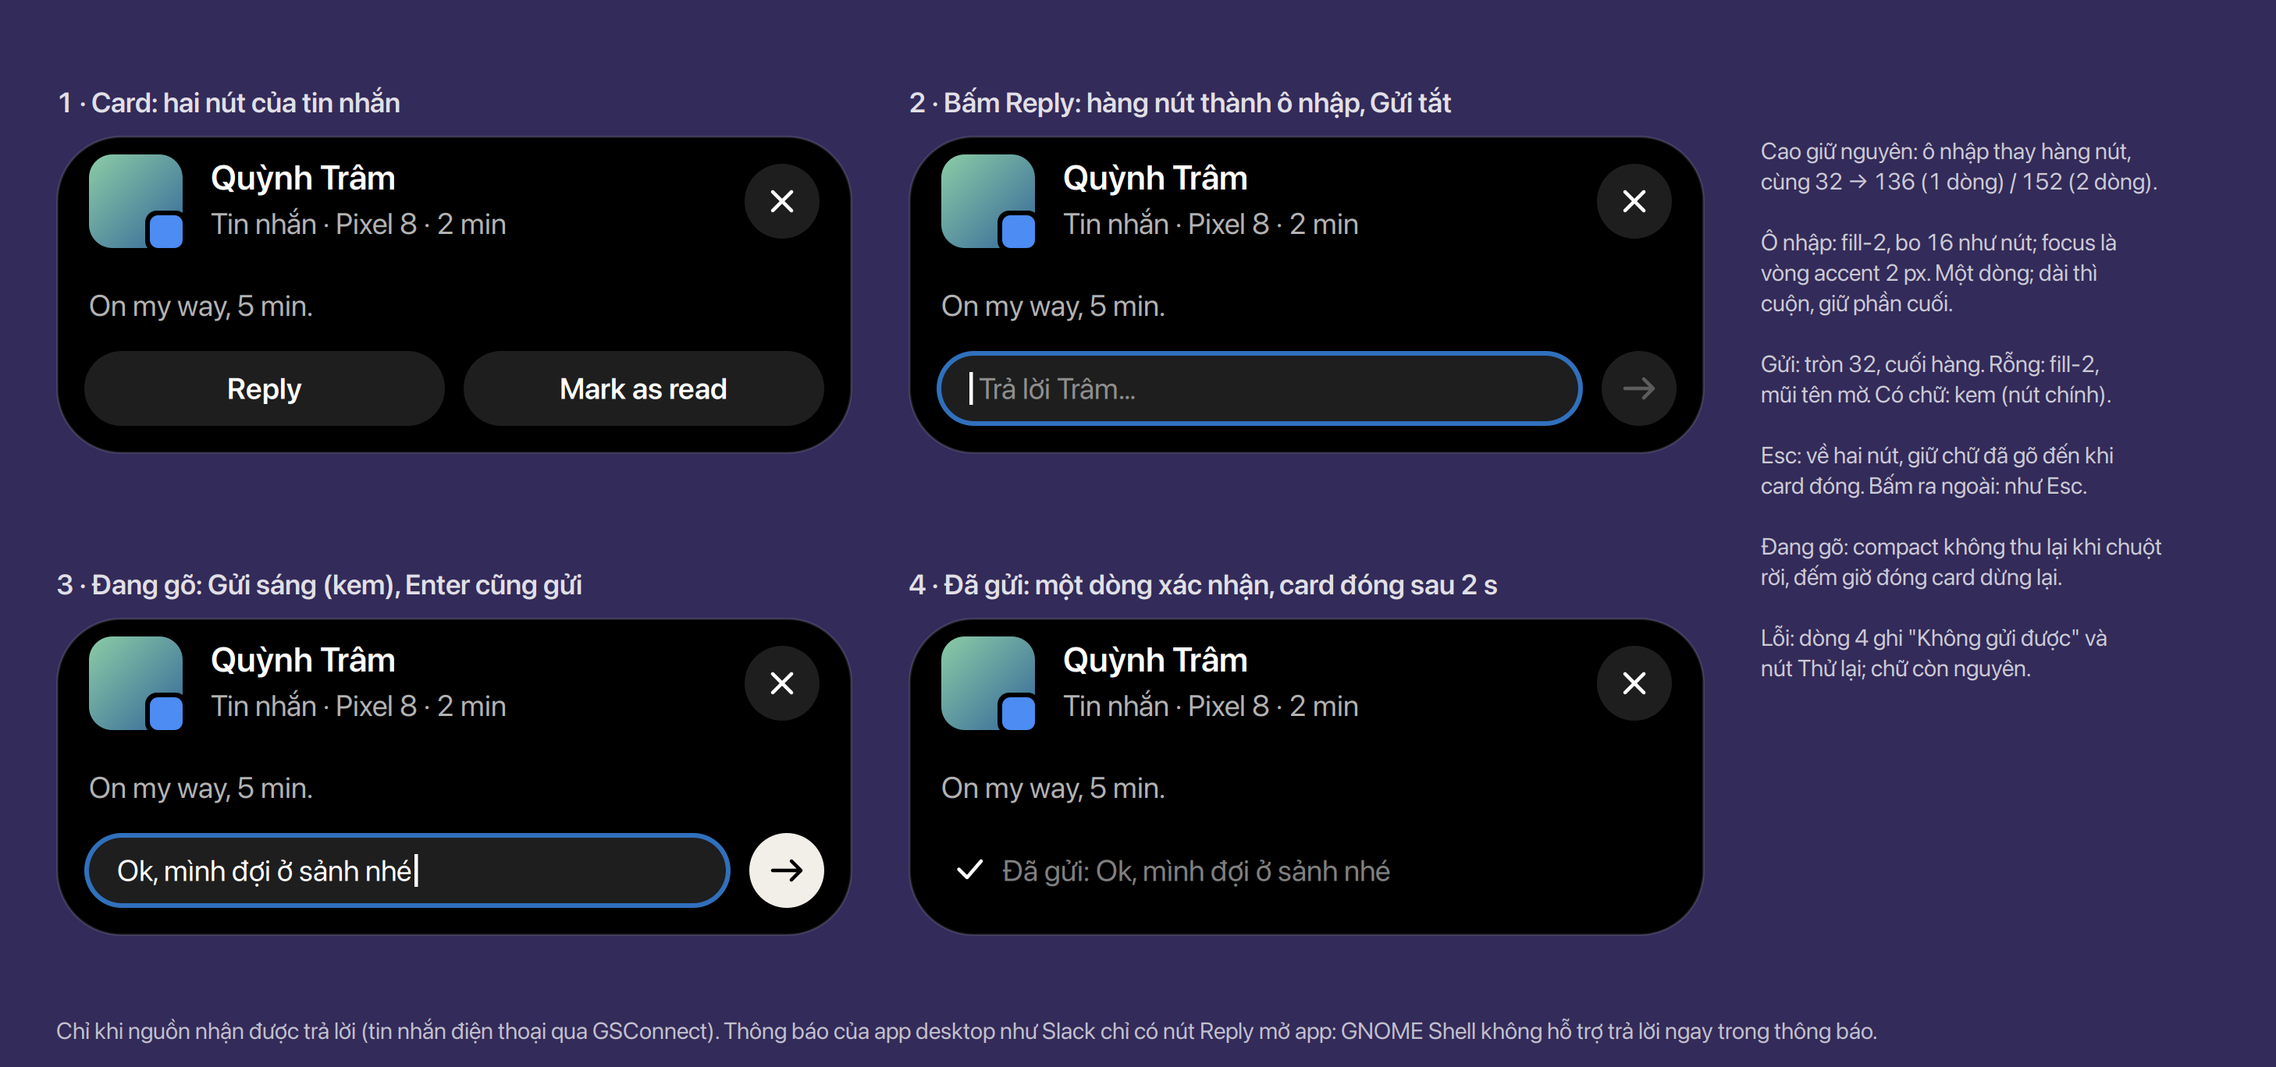
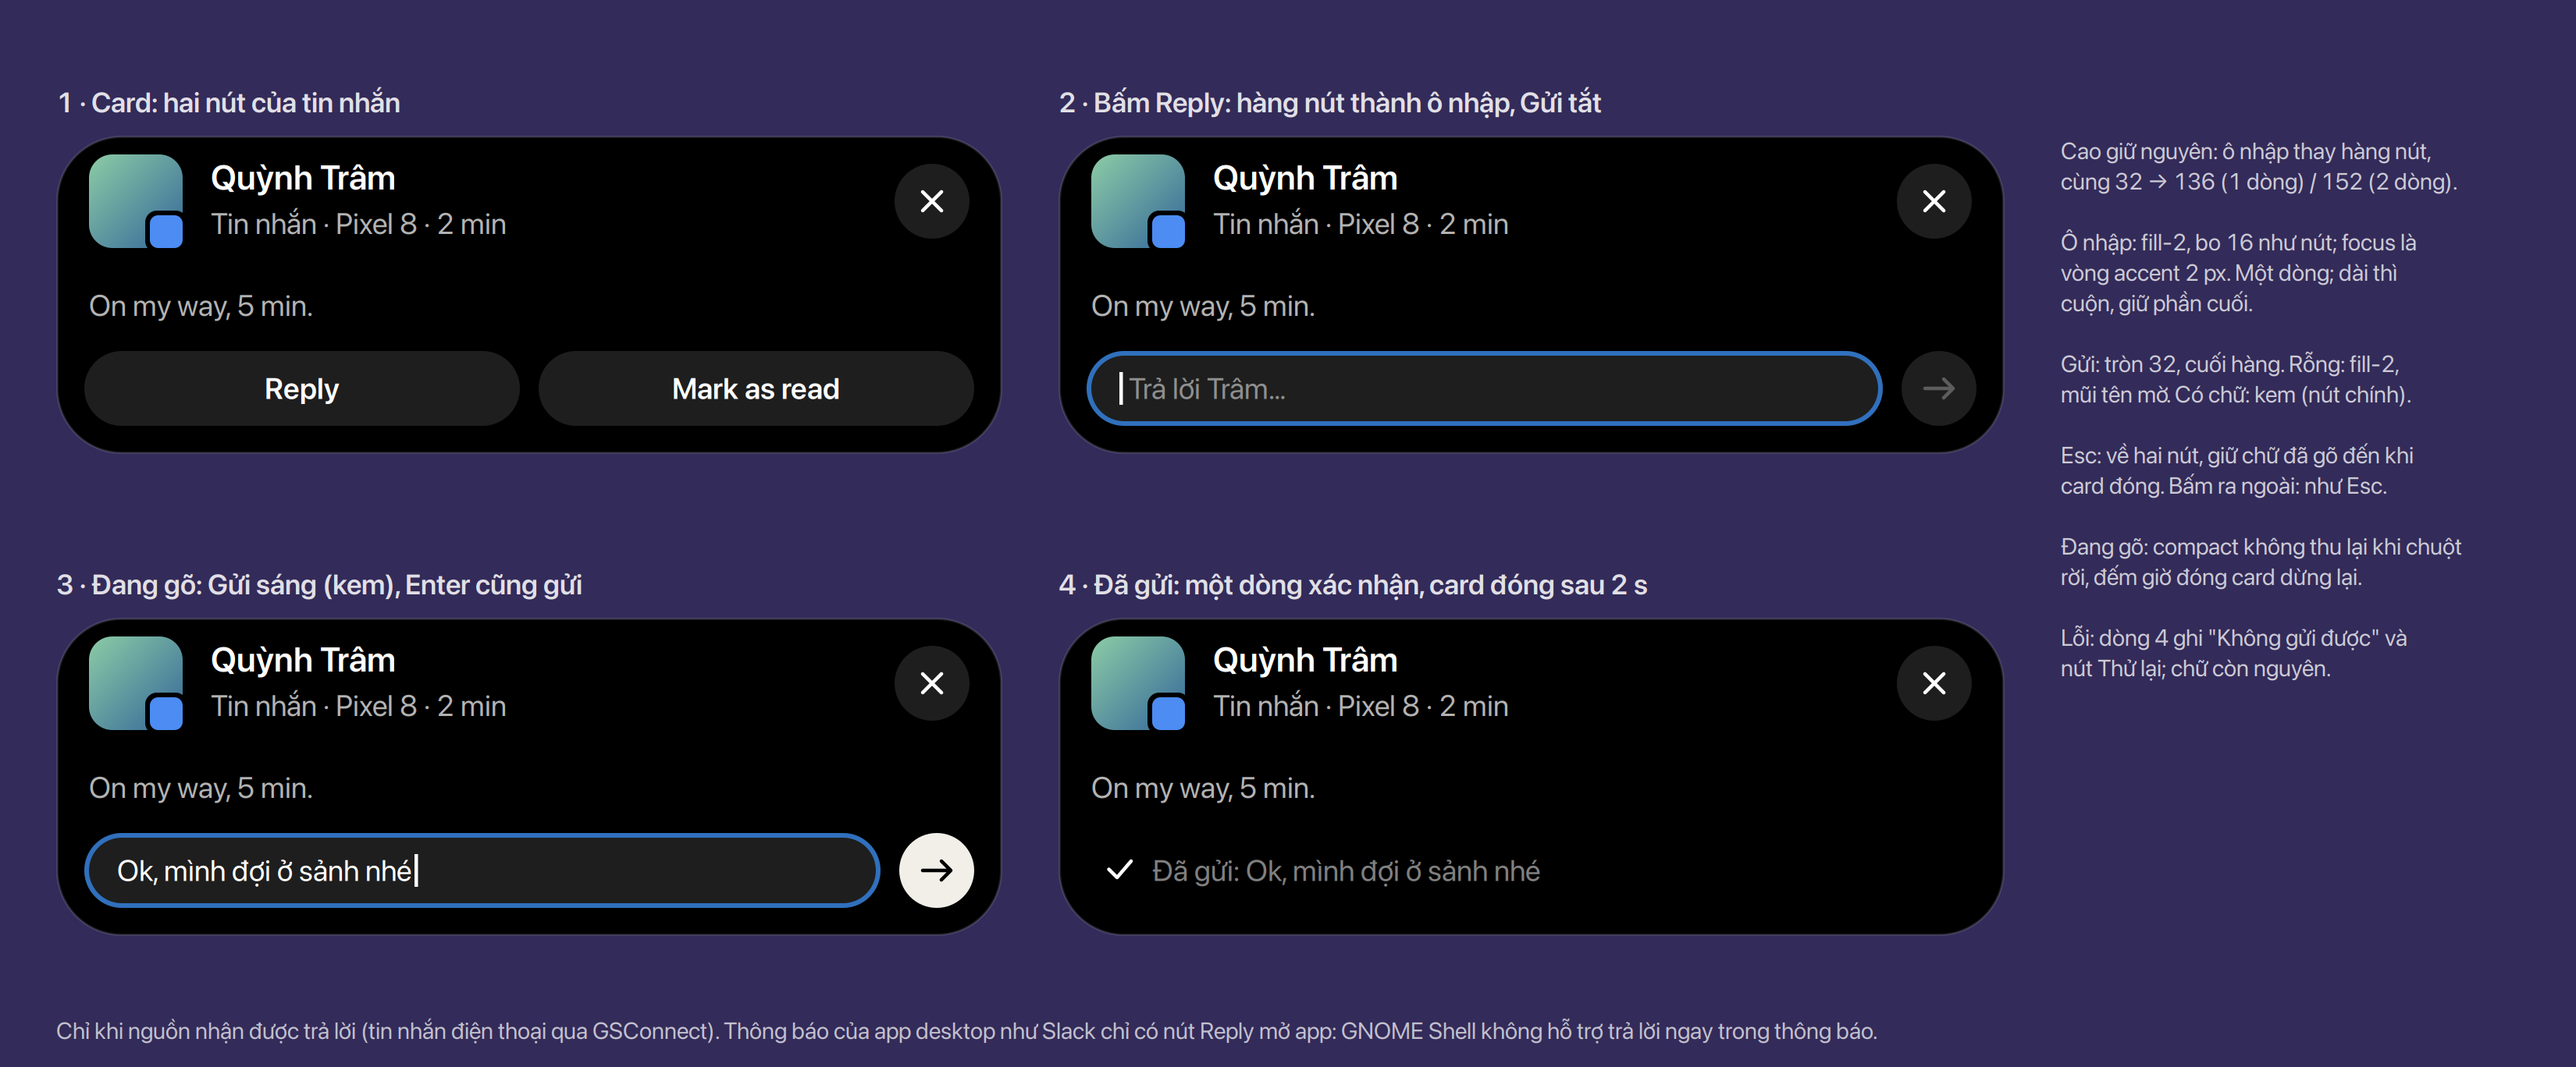
feat(kit): one width for every compact, min(28em, 0.72 × expanded)
Content-fit is the pill's alone (Ethan, 2026-11-12): a content-fit compact put its round
buttons right beside the text and gave every compact a size of its own, which looked wrong.
Every compact, the card and the ask included, is now min(28em, 0.72 × expanded) wide: 404 at
1920, 410 at 2560; its height still steps by rows from its content. The compact's images in
docs/design (anatomy, cards, the ask, Reply, screen sharing) are drawn at 404; tokens,
design/compact and SPEC §2, §4 say so.

Tests: shapes.test.js (one width whatever the content).

Refs: FEATURES.md M4 "Compact layout" (#174)

diff --git a/tests/shapes.test.js b/tests/shapes.test.js
@@ -61,9 +61,9 @@ for (const c of CASES) {
     // compact (design/compact): its content lays out its own paddings, so the compact is the
     // content's size: content-fit width from 240 to the cap, heights 56 + 16n up to 152, r 28
     eq(s.compactMax, c.compactMax, `${at} compactMax = min(28em, 0.72 × expanded)`);
-    eq(s.compact(5000, 56), {w: c.compactMax, h: 56, r: 28}, `${at} compact capped, the head alone`);
-    eq(s.compact(10, 10).w, COMPACT_MIN, `${at} compact never below 240`);
-    eq(s.compact(300.4, 56).w, 302, `${at} compact content-fit, even (no padding added)`);
+    // one width whatever the content: content-fit is the pill's alone (Ethan 2026-11-12)
+    for (const w of [0, 10, 300.4, 5000])
+        eq(s.compact(w, 56), {w: c.compactMax, h: 56, r: 28}, `${at} compact(${w}): always min(28em, 0.72 × expanded)`);
     eq(s.compact(300, 40).h, 56, `${at} less than the head: still the head, 56`);
     eq(s.compact(300, 56).h, 56, `${at} the head alone: 56`);
     eq(s.compact(300, 57).h, 72, `${at} a pixel more: one row more, 72`);
@@ -75,13 +75,10 @@ for (const c of CASES) {
         if ((h - 56) % 16 !== 0 || h < 56 || h > COMPACT_TALL)
             throw new Error(`${at} compact(${need}).h = ${h} is not 56 + 16n up to 152`);
     }
-    // a card (a notification, NOTIFICATIONS.md §3): content-fit up to 160, never under 56
-    const card = {card: true};
-    eq(s.compact(100, 136, card), {w: c.compactMax, h: 136, r: 28}, `${at} card: full width, one line 136`);
-    eq(s.compact(100, 152, card).h, 152, `${at} card with two lines: 152`);
-    eq(s.compact(100, 104, card).h, 104, `${at} card without buttons (an alert): 104`);
-    eq(s.compact(100, 300, card).h, COMPACT_TALL, `${at} card stops at 152`);
-    eq(s.compact(100, 10, card).h, 56, `${at} card never under 56`);
+    // a card (a notification, NOTIFICATIONS.md §3): the same width, its height by rows
+    eq(s.compact(100, 136), {w: c.compactMax, h: 136, r: 28}, `${at} card: one line 136`);
+    eq(s.compact(100, 152).h, 152, `${at} card with two lines: 152`);
+    eq(s.compact(100, 104).h, 104, `${at} card without buttons (an alert): 104`);
 
     // where a compact opens: on its pill, shifted only to stay GAP inside the screen
     const W = s.container.w, cw = c.compactMax;

diff --git a/src/buoy@murilegus/lib/kit/ui/present/compact.js b/src/buoy@murilegus/lib/kit/ui/present/compact.js
@@ -85,7 +85,9 @@ function underText(actor, m, {leading = true} = {}) {
 // The compact (SPEC §2, §4): the grown pill.
 function compactBox(p, activity, maxWidth, m) {
     const box = new St.BoxLayout({style_class: 'buoy-compact', orientation: Clutter.Orientation.VERTICAL});
-    box.set_style(`min-width: ${px(m.min)};${maxWidth > 0 ? ` max-width: ${px(maxWidth)};` : ''}`);
+    // one width for every compact (shapes.js compact): its buttons at the right edge
+    if (maxWidth > 0)
+        box.set_style(`width: ${px(maxWidth)};`);
     const btns = buttons(p.actions, activity, m);
     // media with its position: the art 72 takes the head and the bar's row, 8 from the
     // edges, radius 20 (design/compact "Nhạc"): 8 + 72 + 8 = 88
@@ -175,7 +177,7 @@ function rowList(rows, m) {
  *
  * @param {object} activity  presentation data (+ onAction)
  * @param {object} [opts]
- * @param {number} [opts.maxWidth]  the compact's widest (its content carries its paddings)
+ * @param {number} [opts.maxWidth]  the compact's width (its content carries its paddings)
  * @param {string} [opts.light]  unused: the light is the pill's, never the compact's
  * @param {object} [opts.metrics]  kit/model/shapes.js compactMetrics at the em
  * @returns {?Clutter.Actor} null when the activity has no compact

diff --git a/src/buoy@murilegus/lib/kit/model/shapes.js b/src/buoy@murilegus/lib/kit/model/shapes.js
@@ -132,11 +132,13 @@ export function shapesFor(monitor, panelH, opts = {}) {
                 hint === 'wide' ? even(expW * 0.8) : minimalCap),
             h, r: radius(h),
         }),
-        // compact from its content's natural size, paddings included; the island places it
-        // (top edge kept). Heights step by rows: 56 + 16n up to 152, for every compact, the
-        // card too (design/compact "Kích thước"); a card takes the full width.
-        compact: (contentW, contentH, {card = false} = {}) => ({
-            w: card ? compactMax : clamp(evenUp(Math.ceil(contentW)), cm.min, compactMax),
+        // compact: one width, min(28em, 0.72 × expanded), whatever it holds — content-fit is
+        // the pill's alone (Ethan 2026-11-12: a content-fit compact put its buttons beside
+        // the text, and looked wrong). Its height from its content, paddings included, by
+        // rows: 56 + 16n up to 152 (design/compact "Kích thước"). The island places it (top
+        // edge kept).
+        compact: (_contentW, contentH) => ({
+            w: compactMax,
             h: Math.min(compactTall,
                 cm.head + Math.max(0, Math.ceil((Math.ceil(contentH) - cm.head) / cm.row)) * cm.row),
             r: cm.radius,

diff --git a/src/buoy@murilegus/lib/kit/ui/pill.js b/src/buoy@murilegus/lib/kit/ui/pill.js
@@ -245,7 +245,7 @@ export class Pill {
     // The grown pill: from its content's size, centred on the pill and kept on screen;
     // `cx` says where (the other shapes centre on this.cx).
     compactShape() {
-        const shape = this._s.compact(this._compactW, this._compactH, {card: this._compactCard === true});
+        const shape = this._s.compact(this._compactW, this._compactH);
         return {...shape, cx: compactCx(this.cx, shape.w, this._s.container.w)};
     }
 
@@ -481,14 +481,11 @@ export class Pill {
         // the content carries its own paddings (design/compact): it is the compact's size
         const maxWidth = this._s.compactMax, metrics = this._s.compactMetrics;
         const missed = this._missed();
-        this._compactCard = false;
         if (missed)
             return buildMissedCompact(missed, {maxWidth, metrics});
         const shown = this._compactOf();
         if (!shown)
             return null;
-        // a card (a notification) takes the compact's full width (shapes.js compact)
-        this._compactCard = planCompact(shown)?.card !== undefined;
         return buildCompact(shown, {maxWidth, metrics, light: this.role === 'centre' ? this.light : null});
     }
 

diff --git a/docs/design/compact/render/anatomy-compact.js b/docs/design/compact/render/anatomy-compact.js
@@ -11,7 +11,7 @@ import PangoCairo from 'gi://PangoCairo';
 import cairo from 'cairo';
 import {taskState, icon, C, GREY, drawBu, SAMPLE} from '../../render/lib.js';
 
-const SC = 3, W = 700, R = 28, PAD = 14, CW = 340, X = 40;
+const SC = 3, W = 760, R = 28, PAD = 14, CW = 404, X = 40;   // the compact at 1920: min(28em, 0.72 × expanded)
 const W1 = C.WHITE, G = GREY.MUTED, G2 = GREY.MUTED, CY = [.4, .85, 1], RD = [1, .5, .5];   // CY, RD: guide marks
 const ART = [[.95, .55, .35], [.35, .25, .75]];
 const ALL = [
@@ -239,5 +239,5 @@ for (const it of ROWS) {
     }
     y += h + GAPY;
 }
-text(`Rộng ${ROWS[0].w ?? CW} ở đây; compact rộng 16em … min(28em, 0.72 × expanded) = 240 … 404 ở 1920.`, X, H - 22, 6.5, 400, W1, .75);
+text(`Rộng ${ROWS[0].w ?? CW} ở đây; compact rộng cố định min(28em, 0.72 × expanded): 404 ở 1920, 410 ở 2560 (Ethan, 2026-11-12).`, X, H - 22, 6.5, 400, W1, .75);
 surf.writeToPNG(ARGV[0]);

diff --git a/docs/design/compact/render/screen.js b/docs/design/compact/render/screen.js
@@ -87,7 +87,7 @@ function compact(x, y, {lead, title, sub, w = 300}) {
 }
 const notes = (x, y, lines) => lines.forEach((l, i) => text(l, x, y + i * 13, {sz: 7.5, a: .65}));
 const b1 = compact(16, 256, {lead: 'video', title: 'Đang quay màn hình', sub: '0:42 · từ 14:03'});
-notes(16, 322, ['Rộng: tối thiểu 16em (240), ở đây theo chữ.', 'Cao 56, chỉ phần đầu; bo 28.',
+notes(16, 322, ['Rộng cố định min(28em, 0.72 × expanded), 404 ở 1920.', 'Cao 56, chỉ phần đầu; bo 28.',
     'Leading 40: nền fill-2, icon trắng.', 'Tiêu đề 1em 600 fg; dòng dưới 0.85em fg-subtle,', 'đồng hồ chạy và giờ bắt đầu.',
     'Dừng: nút tròn 32, fill-inverse, stop-fill đen;', `cách mép phải 14, tâm y = 28.`]);
 compact(400, 256, {lead: 'display-pulse', title: 'Đang chia sẻ màn hình', sub: '12:05 · từ 13:51'});

diff --git a/docs/design/compact/render/card.js b/docs/design/compact/render/card.js
@@ -7,7 +7,7 @@ import Pango from 'gi://Pango';
 import PangoCairo from 'gi://PangoCairo';
 import cairo from 'cairo';
 import {SCALE as SC, C, GREY, icon, SAMPLE} from '../../render/lib.js';
-const R = 28, PAD = 14, LEAD = 40, TX = PAD + LEAD + 12, PW = 340, W = 760;
+const R = 28, PAD = 14, LEAD = 40, TX = PAD + LEAD + 12, PW = 404, W = 860;
 const W1 = C.WHITE, G = GREY.MUTED, G2 = GREY.MUTED;   // subtitle and body: fg-muted
 const cards = [
   {avatar: true, msg: 'Pushed the pill shapes to the branch — can you review the compact and the card before the 3 PM sync?', buttons: ['Reply', 'Mark as read'], note: 'ảnh đại diện + logo app'},

diff --git a/docs/design/compact/render/reply.js b/docs/design/compact/render/reply.js
@@ -9,7 +9,7 @@ import cairo from 'cairo';
 import {SCALE as SC, C, icon, SAMPLE} from '../../render/lib.js';
 const out = ARGV[0];
 
-const R = 28, PW = 340, H1 = 136, W = 2 * PW + 3 * 24 + 220, TOP = 34, GAP = 70;
+const R = 28, PW = 404, H1 = 136, W = 2 * PW + 3 * 24 + 220, TOP = 34, GAP = 70;
 const H = TOP + 2 * (H1 + GAP) + 10;
 const surf = new cairo.ImageSurface(cairo.Format.ARGB32, W * SC, H * SC);
 const cr = new cairo.Context(surf);

diff --git a/docs/SPEC.md b/docs/SPEC.md
@@ -246,7 +246,7 @@ The code uses these names since 2026-11-05 (before: compact for minimal, peek fo
 |---|---|---|---|
 | **Idle** | no activity | 132×32 r16 at 1× (as wide as the clock at its longest, measured: §4); content per `idle-content` (§2a) | hover → +0.75em width, +2 height, and with the amber light the missed list as a compact; press → a pulse; **click → open Home** |
 | **Minimal** | one or more activities | pill 1 (highest priority) at screen centre, content-fit; up to two side pills to its right, each the idle's size, as many as fit before the system cluster (§2c) | hover a pill 300 ms → its compact; **click → that activity's tab**, Home on the `+N` badge or while the missed list shows (2026-11-04) |
-| **Compact** | the pointer rests on a pill; an alert (5 s); an ask, until answered | the pill grows in place: top edge kept, width 16em … min(28em, 0.72 × expanded), content-fit; height 56 + 16n up to 152 (§4, design/compact); a card (a notification, an ask) full width | the activity's compact content (media: art 72, transport and its bar), or the amber missed list instead (INDICATORS.md); its buttons run their action, a click elsewhere on it = the pill's click; hovered, it collapses 200 ms after the pointer leaves; an alert's stays 5 s (longer while hovered), an ask's until it is answered (its keys work after Super+B) (2026-11-12, design/alerts-and-asks) |
+| **Compact** | the pointer rests on a pill; an alert (5 s); an ask, until answered | the pill grows in place: top edge kept, width fixed at min(28em, 0.72 × expanded) — content-fit is the pill's alone (2026-11-12, Ethan); height 56 + 16n up to 152 (§4, design/compact) | the activity's compact content (media: art 72, transport and its bar), or the amber missed list instead (INDICATORS.md); its buttons run their action, a click elsewhere on it = the pill's click; hovered, it collapses 200 ms after the pointer leaves; an alert's stays 5 s (longer while hovered), an ask's until it is answered (its keys work after Super+B) (2026-11-12, design/alerts-and-asks) |
 | **Expanded** | opened from idle, minimal or compact by a click; by the stack for a transient | `EXPANDED` (see §4) | only a click outside collapses (or Esc after a click-open), at once; clicks inside do nothing, buttons run their action (decided 2026-11-01) |
 
 Rules:
@@ -755,7 +755,7 @@ container is sized to that cap.
 | hover / press | +0.75em / +1.25em width, +2 / +4 height (a pill before or without its compact) | 144×34 / 150×36 from idle | | |
 | minimal, pill 1 | content + 2 × 8 (rounded up), clamped to [idle, min(24em, 0.6 × expanded)] (`'wide'` hint → 0.8 × expanded) | ≤ 336 | ≤ 352 | ≤ 352 |
 | minimal, pills 2–3 | fixed, the idle size | 132×32 | 132×32 | 132×32 |
-| compact | design/compact (2026-11-12): width 16em … min(28em, 0.72 × expanded), content-fit; height 56 + 16n up to 152 — a head of 56 (leading 40, 8 above and below, 14 at the sides, round buttons 32 on its middle), then rows of 16: media 88 (its art 72), up to 3 rows 120, a **card** (a notification, an ask; NOTIFICATIONS.md §3) full width, 136 with one line of message and 152 with two, 104 without buttons; r 28; the content carries its paddings, all scaled by the em (`shapes.js` compactMetrics); top edge at the pill's | 240 … 404 × 56 … 152 | ≤ 410 | ≤ 410 |
+| compact | design/compact (2026-11-12): width fixed at min(28em, 0.72 × expanded), whatever it holds (content-fit is the pill's alone); height 56 + 16n up to 152 — a head of 56 (leading 40, 8 above and below, 14 at the sides, round buttons 32 on its middle), then rows of 16: media 88 (its art 72), up to 3 rows 120, a **card** (a notification, an ask; NOTIFICATIONS.md §3) 136 with one line of message and 152 with two, 104 without buttons; r 28; the content carries its paddings, all scaled by the em (`shapes.js` compactMetrics); top edge at the pill's | 404 × 56 … 152 | 410 | 410 |
 | expanded | width `clamp(0.28 × W, 560, 760)` or `expanded-width` (≤ W − 40); height fits content, at most width/2; r 28 | 560 × ≤280 | 716 × ≤358 | 760 × ≤380 |
 | container | the monitor's width (2026-11-05, was expanded + 20 each side: a compact may open on any pill, up to 4 px from the screen edge), expanded's cap + 40 tall; never reactive at rest, so it takes no clicks (Clutter picks only reactive actors, `clutter_actor_should_pick`) | 1920 | 2560 | 3440 |
 
